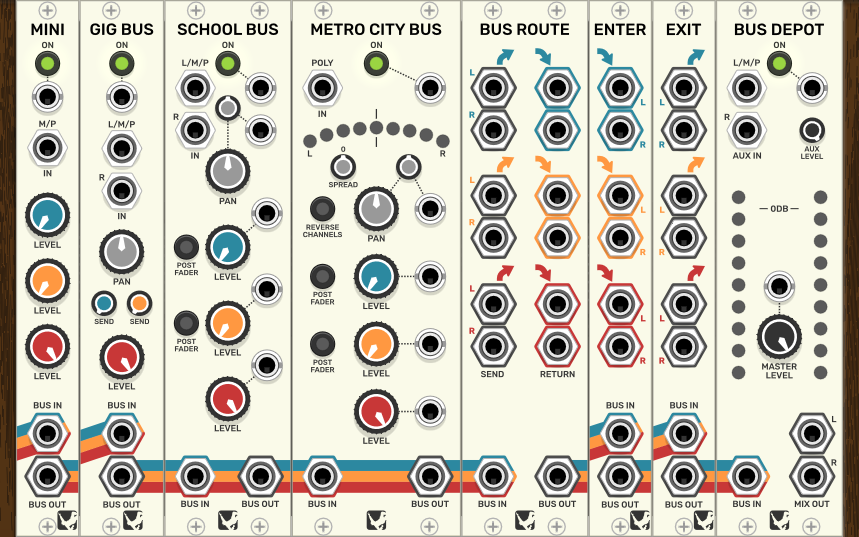
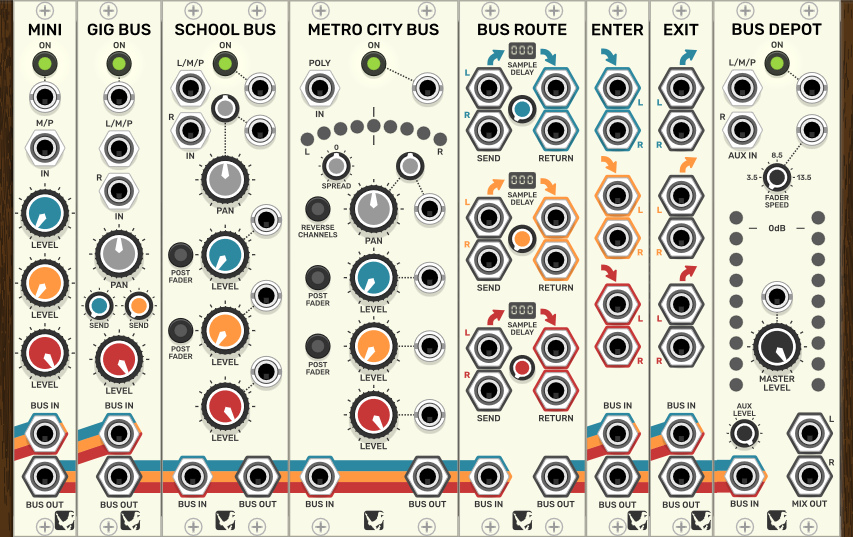
settings and README for ver 1.0.2

diff --git a/README.md b/README.md
@@ -4,13 +4,15 @@ Mixing a VCV Rack patch to stereo output is a common task.
 You can use monolithic rack modules that mimic real-world mixing consoles, but they don't take advantage of the power or flexibility inherent in a modular environment.
 And other modular mixers tend to make it complicated to route multiple sounds to send effects.
 
-Each bus mixer connects together with the BUS IN and BUS OUT ports.
-This allows them to route audio along three stereo buses: red, orange, and blue.
+The modular bus mixers from Glue the Giant allow you to choose the right mixer strip, decide where to place each strip, and easily create mix groups.
+
+To use these mixers, simply connect them together with the BUS IN and BUS OUT ports.
+The audio is routed along three stereo buses: red, orange, and blue.
 The bus design makes it easy to patch together modules while creating simple or complex effect sends and returns.
 
 ![alt text](https://github.com/gluethegiant/gtg-rack/blob/master/design/screenshot.png)
 
-## The Modular Bus Mixer Suite
+## The Modular Bus Mixers
 
 ### 1. Mini Bus Mixer
 
@@ -18,16 +20,18 @@ This mixer strip uses the least amount of real estate and is perfect for sounds 
 
 * One mono or polyphonic input
 * Level controls to three stereo buses
+* 2x or 4x preamp-style gain on input (selected from the context menu)
 * On button with CV input and pop filter
 
 ### 2. Gig Bus Mixer
 
-A mixer strip with standard features, but without the CV inputs or the extra real estate of the School Bus Mixer.
+A mixer strip configured as a master bus and two post fader send buses, but without the CV inputs or the extra real estate of the School Bus Mixer.
 
 * Stereo, mono, or polyphonic input
 * Constant power pan control
 * Level controls to three stereo buses
-* Blue and orange levels are post red level (red is master bus) 
+* Blue and orange levels are post red level (red is the master bus) 
+* 2x or 4x preamp-style gain on inputs (selected from the context menu)
 * On button with CV input and pop filter
 
 ### 3. School Bus Mixer
@@ -37,18 +41,19 @@ With CV inputs on almost everything, you can connect LFOs, master control knobs,
 
 * Stereo, mono, or polyphonic input
 * Constant power pan control with CV input and attenuator
-* Pan CV input expects bi-direction LFO sine wave from -5.0 to 5.0 
+* Pan CV input expects bi-directional source from -5.0 to 5.0 
 * Three level controls, with CV inputs, to three stereo buses
-* Post fader option on two level controls (red becomes master bus)
+* Post fader option on two level controls (red becomes the master bus)
+* 2x or 4x preamp-style gain on inputs (selected from the context menu)
 * On button with CV input and pop filter
 
-Note that panning rolls back seamlessly when the pan CV input, attenuator, and pan knob combine to be less than -1 or greater than 1.
+Note that panning rolls back seamlessly when the pan CV input, attenuator, and pan knob overload the pan circuit.
 
 ### 4. Metro City Bus Mixer
 
-This mixer can take a polyphonic input and spread the channels across the stereo field.
+This mixer can take a polyphonic input and spread the channels evenly across the stereo field.
 The pan knob controls the placement of the first channel from the polyphonic input (or the last channel if the REVERSE CHANNELS button is on).
-The spread knob evenly spaces the other polyphonic channels to the left or to the right.
+The spread knob spaces the other polyphonic channels to the left or to the right.
 The LED indicators give you a visual indication of the stereo spread.
 
 Automate the pan with an LFO on the CV input for a polyphonic pan follow that can be adjusted with the attenuator and spread knobs.
@@ -57,46 +62,65 @@ Pan spread and pan follow are smoothed to allow for dynamic polyphonic channels.
 * One polyphonic input
 * Polyphonic stereo spread with LED visuals
 * Constant power pan control with CV input and attenuator
-* Pan CV input expects bi-direction LFO sine wave from -5.0 to 5.0 
-* Reverse channel order option for polyphonic spread or pan follow
+* Pan CV input expects bi-directional source from -5.0 to 5.0 
+* Reverse channel order on polyphonic spread or pan follow
 * Three level controls, with CV inputs, to three stereo buses
 * Post fader option on two level controls (red becomes master bus)
+* 2x or 4x preamp-style gain on polyphonic input (selected from context menu)
 * On button with CV input and pop filter
 
 ### 5. Bus Route
 
 Connects standard effect sends and returns to your buses.
 
+Bus Route also contains an optional integrated sample delay on each return.
+These delays are designed for latency compensation.
+For example, most effect modules in VCV Rack will create a delay of only one sample.
+If you route to an effect on the orange bus, you could add a one sample delay to your red bus to keep your audio in perfect sync.
+This latency compensation of one sample is hardly noticeable, but some effects, including external plugins, can require latency compensation to prevent unwanted phase issues.
+When latency is not documented by a plugin, a scope can be used to detect and correct for latency.
+
+The integrated sample delays can also be used for a subtle shift on a bus or a mix group or to create phase effects based on millisecond delays.
+The sample delays on Bus Route are limited to 999 samples so they can be light on resources and set easily (use CTRL to improve the accuracy of a VCV Rack knob).
+
 * Three stereo sends for use with modular bus mixers
 * Three stereo returns for use with modular bus mixers
+* Three sample delay lines, one on each stereo bus return, for up to 999 samples of latency compensation
 
 Note: manually connect outputs to inputs on buses that need pass through.
 To merge the audio of sends and returns onto buses, the Exit Bus and Enter Bus modules can be used.
 
 ### 6. Enter Bus
 
-For advanced routing, this utility module merges audio onto any bus.
+For advanced routing or loop backs from different buses, this utility module merges audio onto any bus.
 
 * Three stereo inputs to three stereo buses
 
 ### 7. Exit Bus
 
-For advanced routing or a simple extension panel, this utility module provides stereo outputs from all buses.
+For advanced routing or a simple extension panel to expose the outputs of any modular bus mixer module.
 
 * Three stereo outputs from three stereo buses
 
 ### 8. Bus Depot
 
-This module is placed at the end of your bus mixer chain.
-The stereo outputs are connected to left and right channels on your audio device.
-The aux input can be used to chain Bus Depot modules or another mixer module.
+This module is placed at the end of your bus mixer chains.
+The stereo outputs can then be connected to the left and right channels on your audio device.
 
-* Sums three stereo buses to the left and right stereo mix
-* Master level control
+The provided aux inputs can be used to chain Bus Depot modules or to attached any other sound source.
+Mixer groups are created by using a different Bus Depot module after each group of mixers.
+
+Bus Depot has an on button that controls an auto fader on the output.
+By changing the speed knob, the fader can go from providing a 20 millisecond pop filter to a long fade of up to 17 seconds.
+
+* Sums three stereo buses to the left and right stereo outputs
+* Master level control with CV
 * Aux input that accepts stereo, mono, or polyphonic cables
 * Aux level control
-* Left and right peak meters with a brief hold on peaks over 0db
-* Each meter light represents -6db.
+* Left and right peak meters with a brief hold on peaks over 0dB
+* Each meter light represents -6dB
+* Output on/off button with a fader that can be a pop filter or a fade up to 17 seconds
+* Auto fader speed knob with CV
 
 ## More Information
 
@@ -117,6 +141,17 @@ To build these rack modules, see the official [VCV Rack documentation](https://v
 
 ## Release Notes
 
+v. 1.0.2 The Tick Release (October 12, 2019)
+
+- Added 2x or 4x preamp-style gain on all four mixer strips (selected from the context menu)
+- New sample delay lines provide latency compensation on Bus Route
+- New auto fader with speed control on Bus Depot
+- Improved performance on Metro City Bus Mixer's polyphonic pan follow
+- Initialization of all parameters that are not attached to a knob
+- Improved behavior when changing sample rates
+- Other improvements in the code (e.g. a fader object allowed the addition of new features with no CPU increase)
+- Small UI enhancements, including fleas ... I mean lice ... no, I mean ticks (tick marks, that is, our buses do not have lice)
+
 v. 1.0.1 Metro City Bus Release (September 23, 2019)
 
 - Added Metro City Bus Mixer with polyphonic stereo spread
@@ -124,7 +159,7 @@ v. 1.0.1 Metro City Bus Release (September 23, 2019)
 - Minor CPU optimizations
 - Small UI enhancements, including a better 70's cream color
 
-Note: Some VCV patches saved with version 1.0.0 of the modular bus mixers will need to have levels reset.
+Note: Some VCV patches saved with version 1.0.0 of the modular bus mixers will need to have levels reset after loading the patches in 1.0.1.
 The developer thought parameters were being saved by their names.
 He now knows parameters are saved by their order.
 
